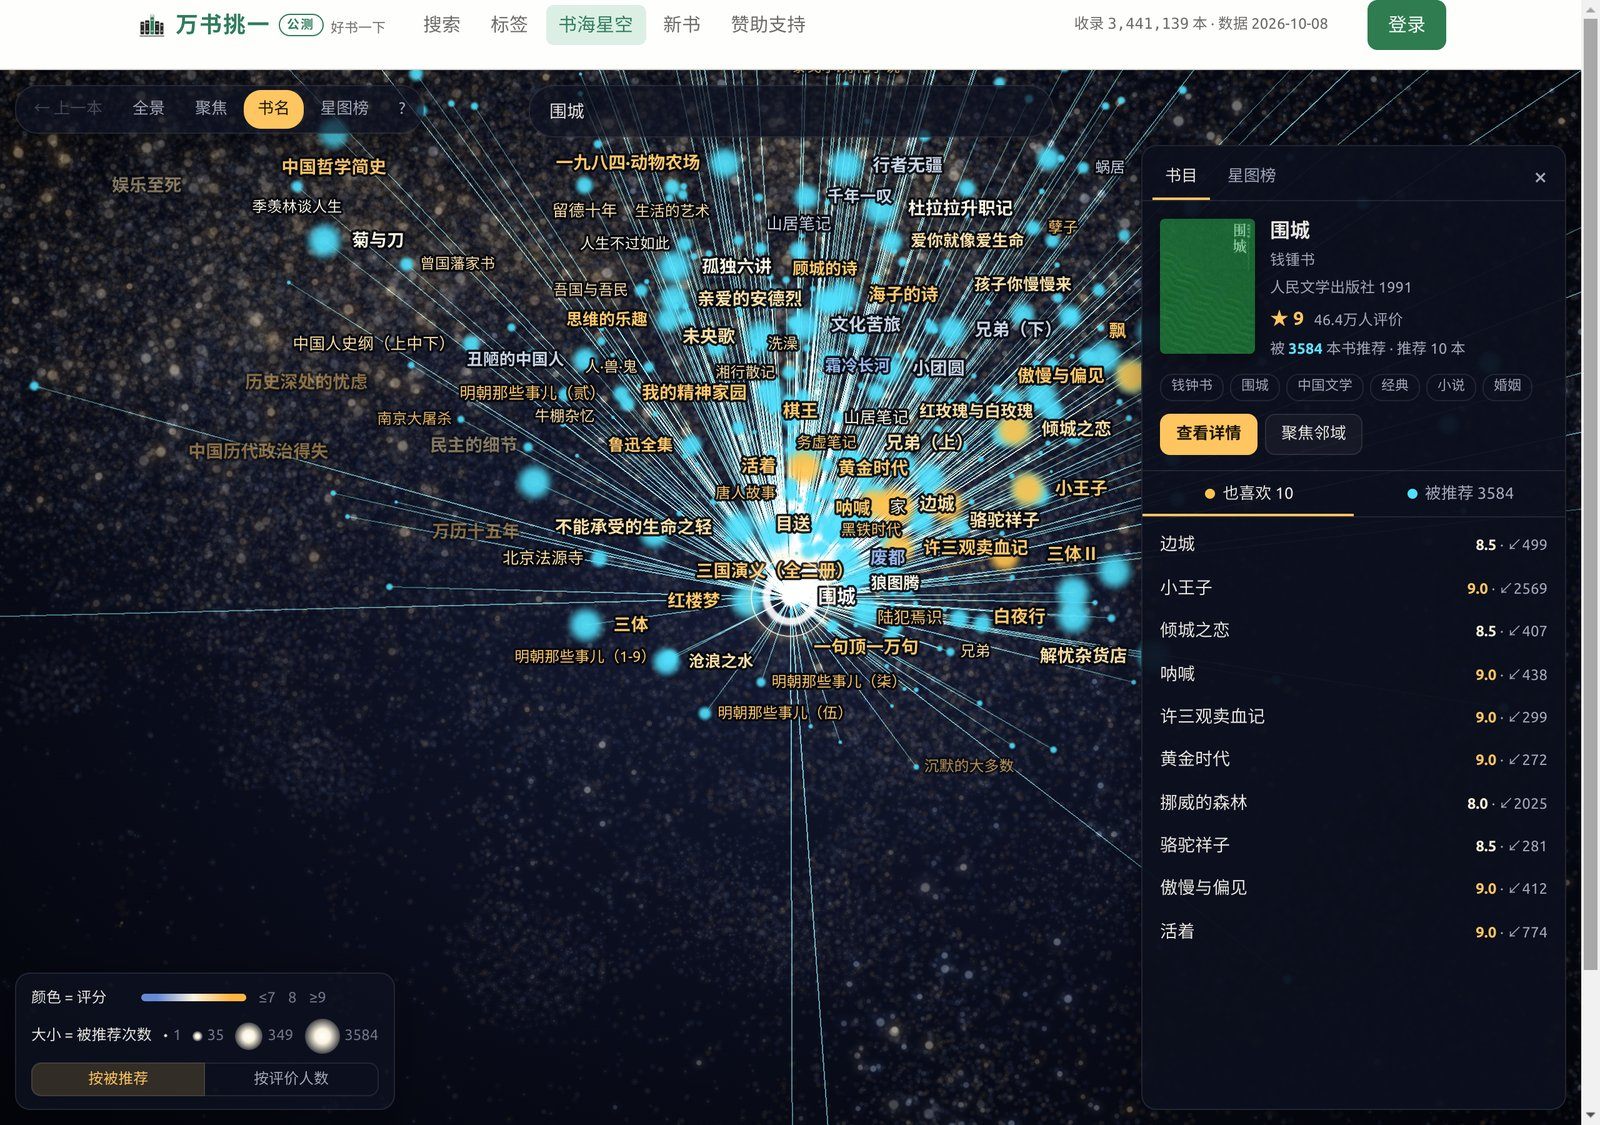
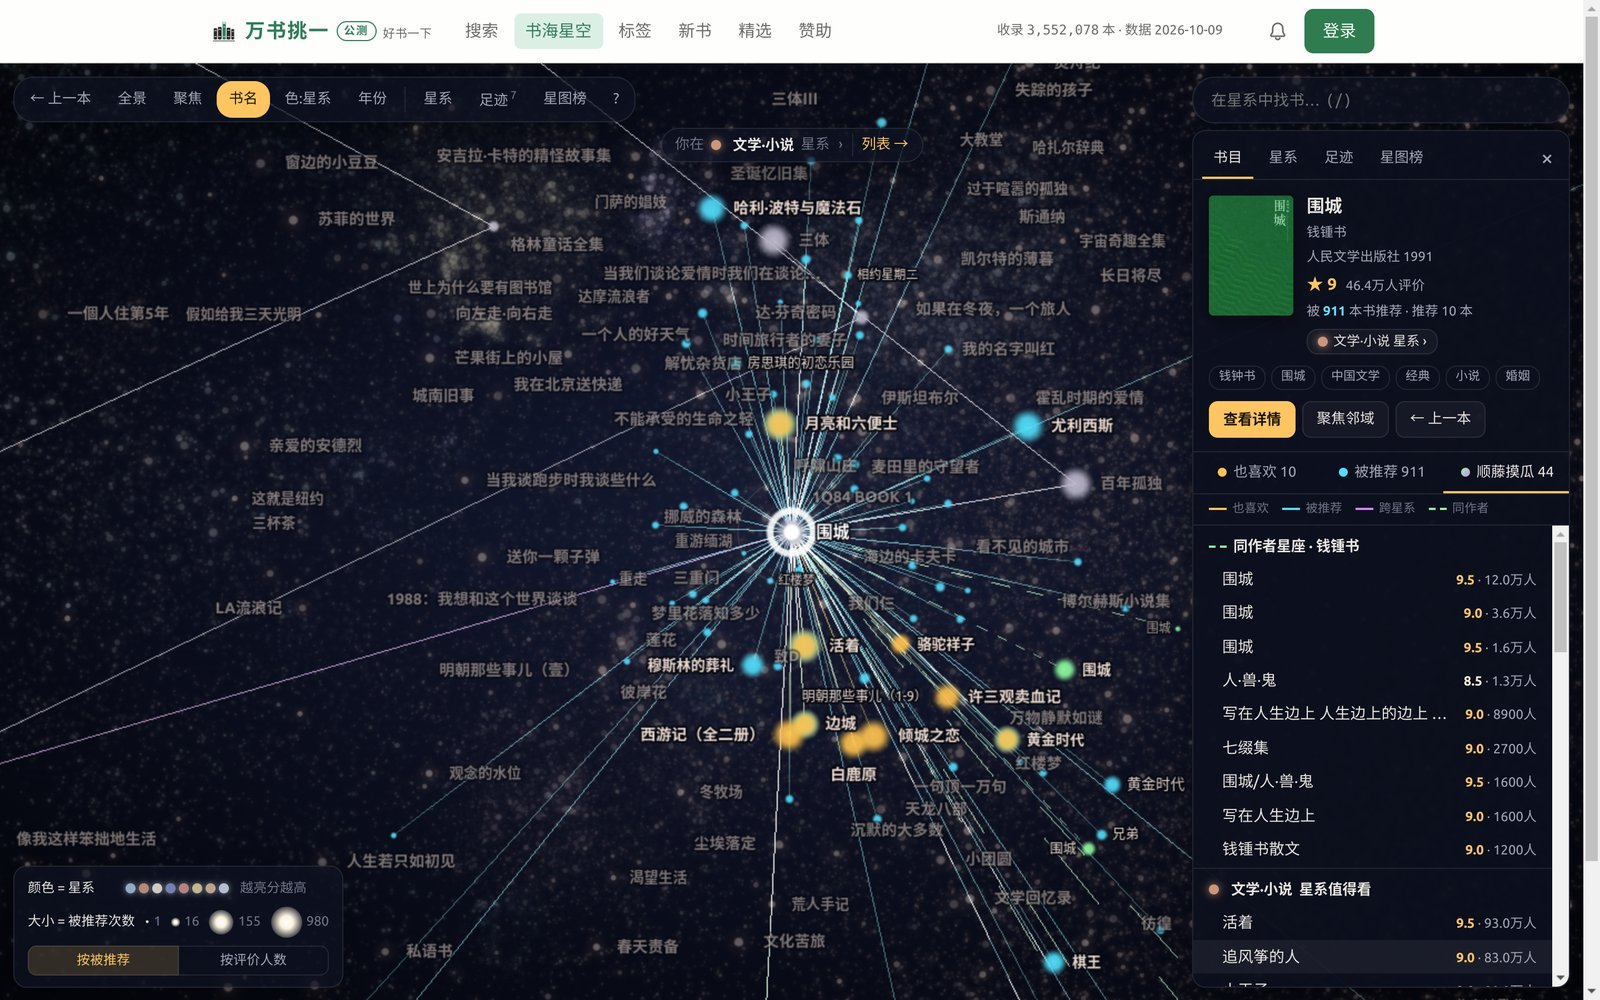
deploy: lanbing510/lanbing510-blog@7bb8ba8c35ce90ebc925a18163e4794a1209e9fa

diff --git a/2026/10/06/WanShuTiaoYiTop238.html b/2026/10/06/WanShuTiaoYiTop238.html
@@ -2519,7 +2519,7 @@ var _hmt = _hmt || [];
 
 <p><img src="/public/img/posts/wanshutiaoyi/total/galaxy.jpg" width="800px"> </img></p>
 
-<p>先放一张图。这是「书海星空」，把 44 万本书之间「读过这本的人也喜欢」的关系画成一张可以漫游的星图：每个点是一本书，大小是被推荐的次数，颜色是评分。中间那颗是《围城》，周围是和它最常被一起读的书。榜单看完，可以从任何一本出发，顺着星图找下一本。</p>
+<p>先放一张图。这是「书海星空」，把 49 万本书之间「读过这本的人也喜欢」的关系画成一张可以漫游的星图：每个点是一本书，大小是被推荐的次数，颜色是它所属的星系（34 个星系按主题命名，比如历史·人文、推理·悬疑），越亮分越高。中间那颗是《围城》，周围是和它最常被一起读的书。榜单看完，可以从任何一本出发，顺着星图找下一本。</p>
 
 <h2>筛法：一层一层剩下 262 本</h2>
 
